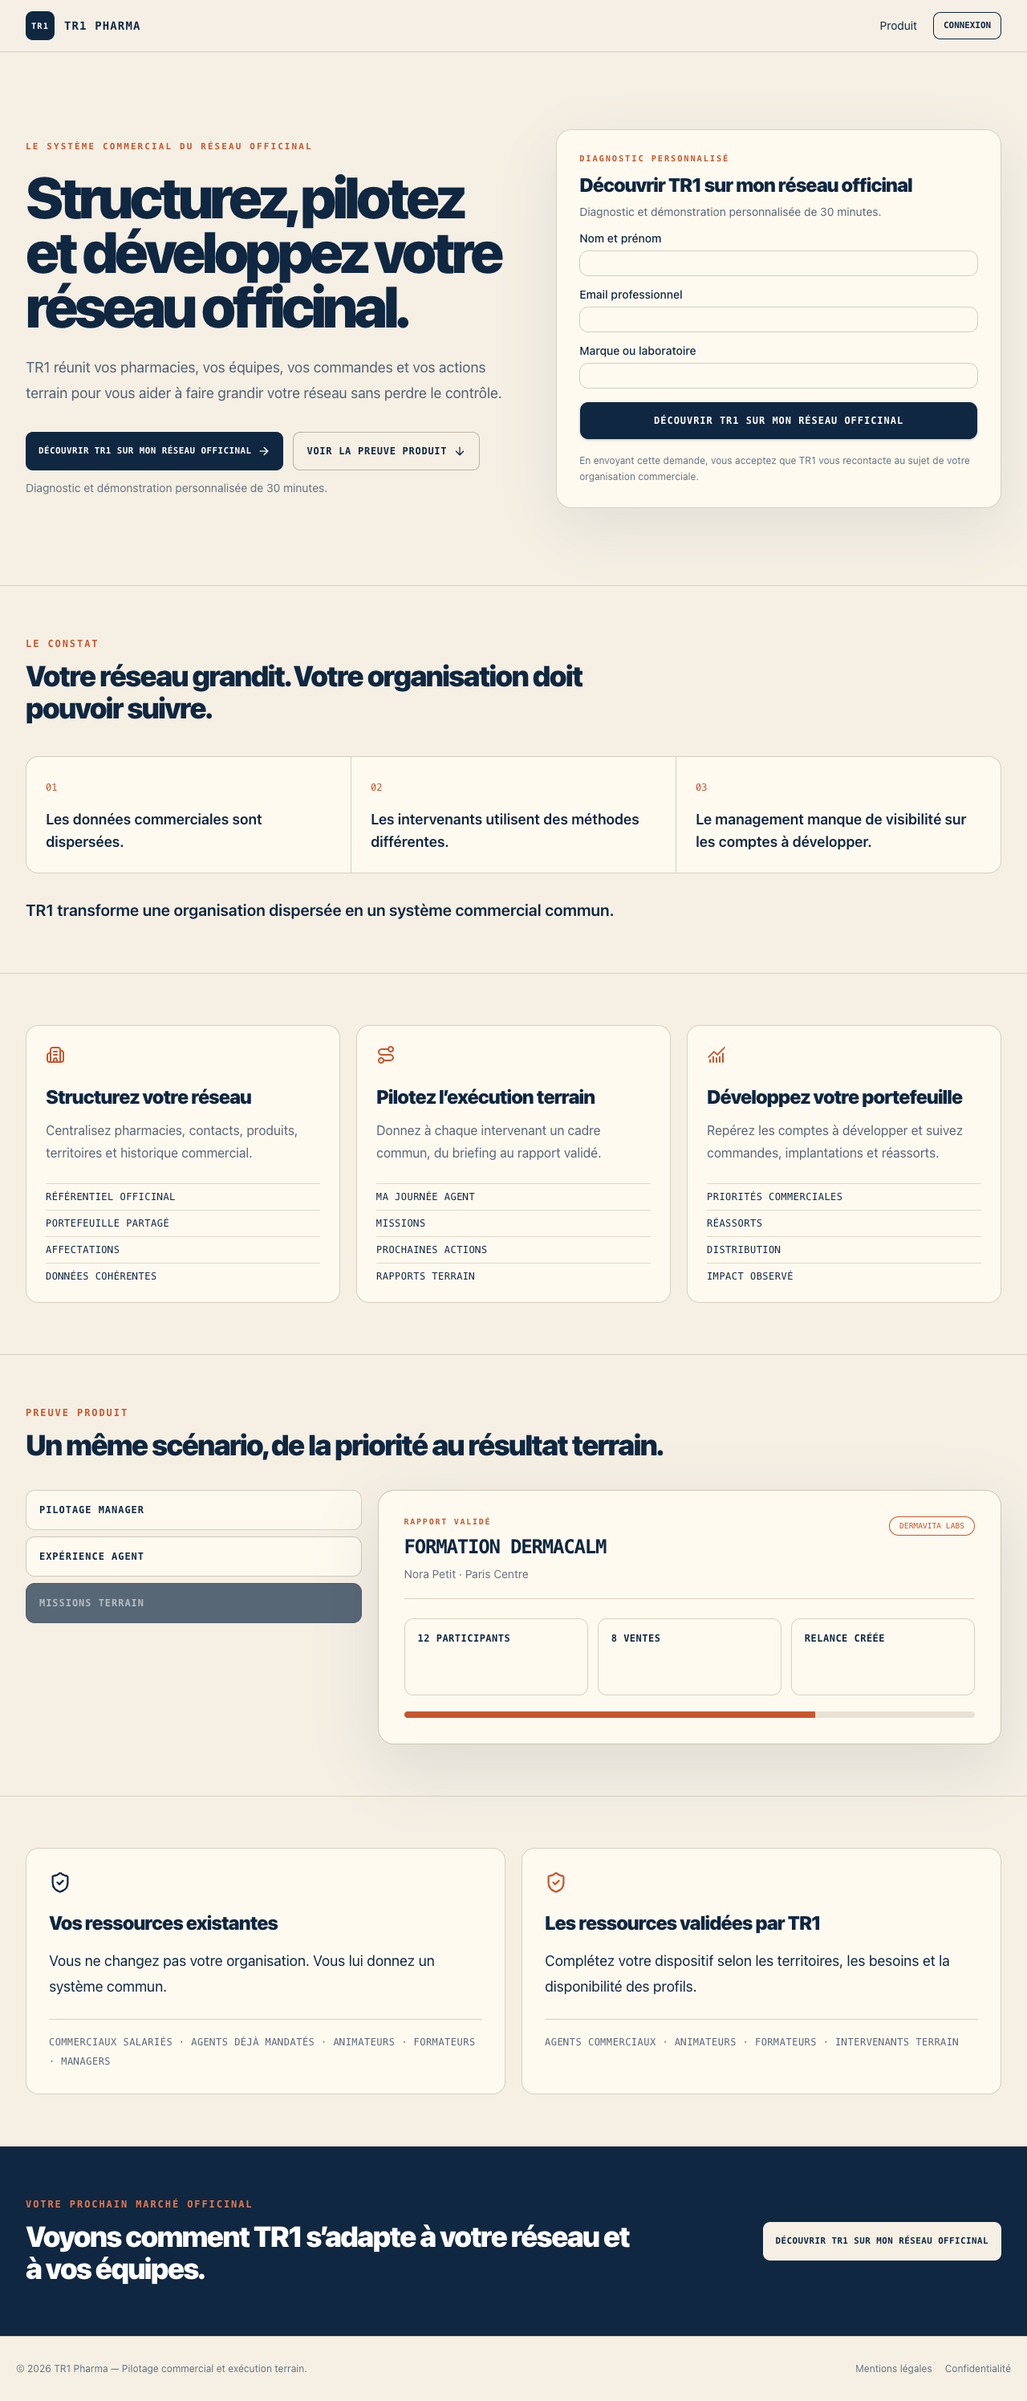
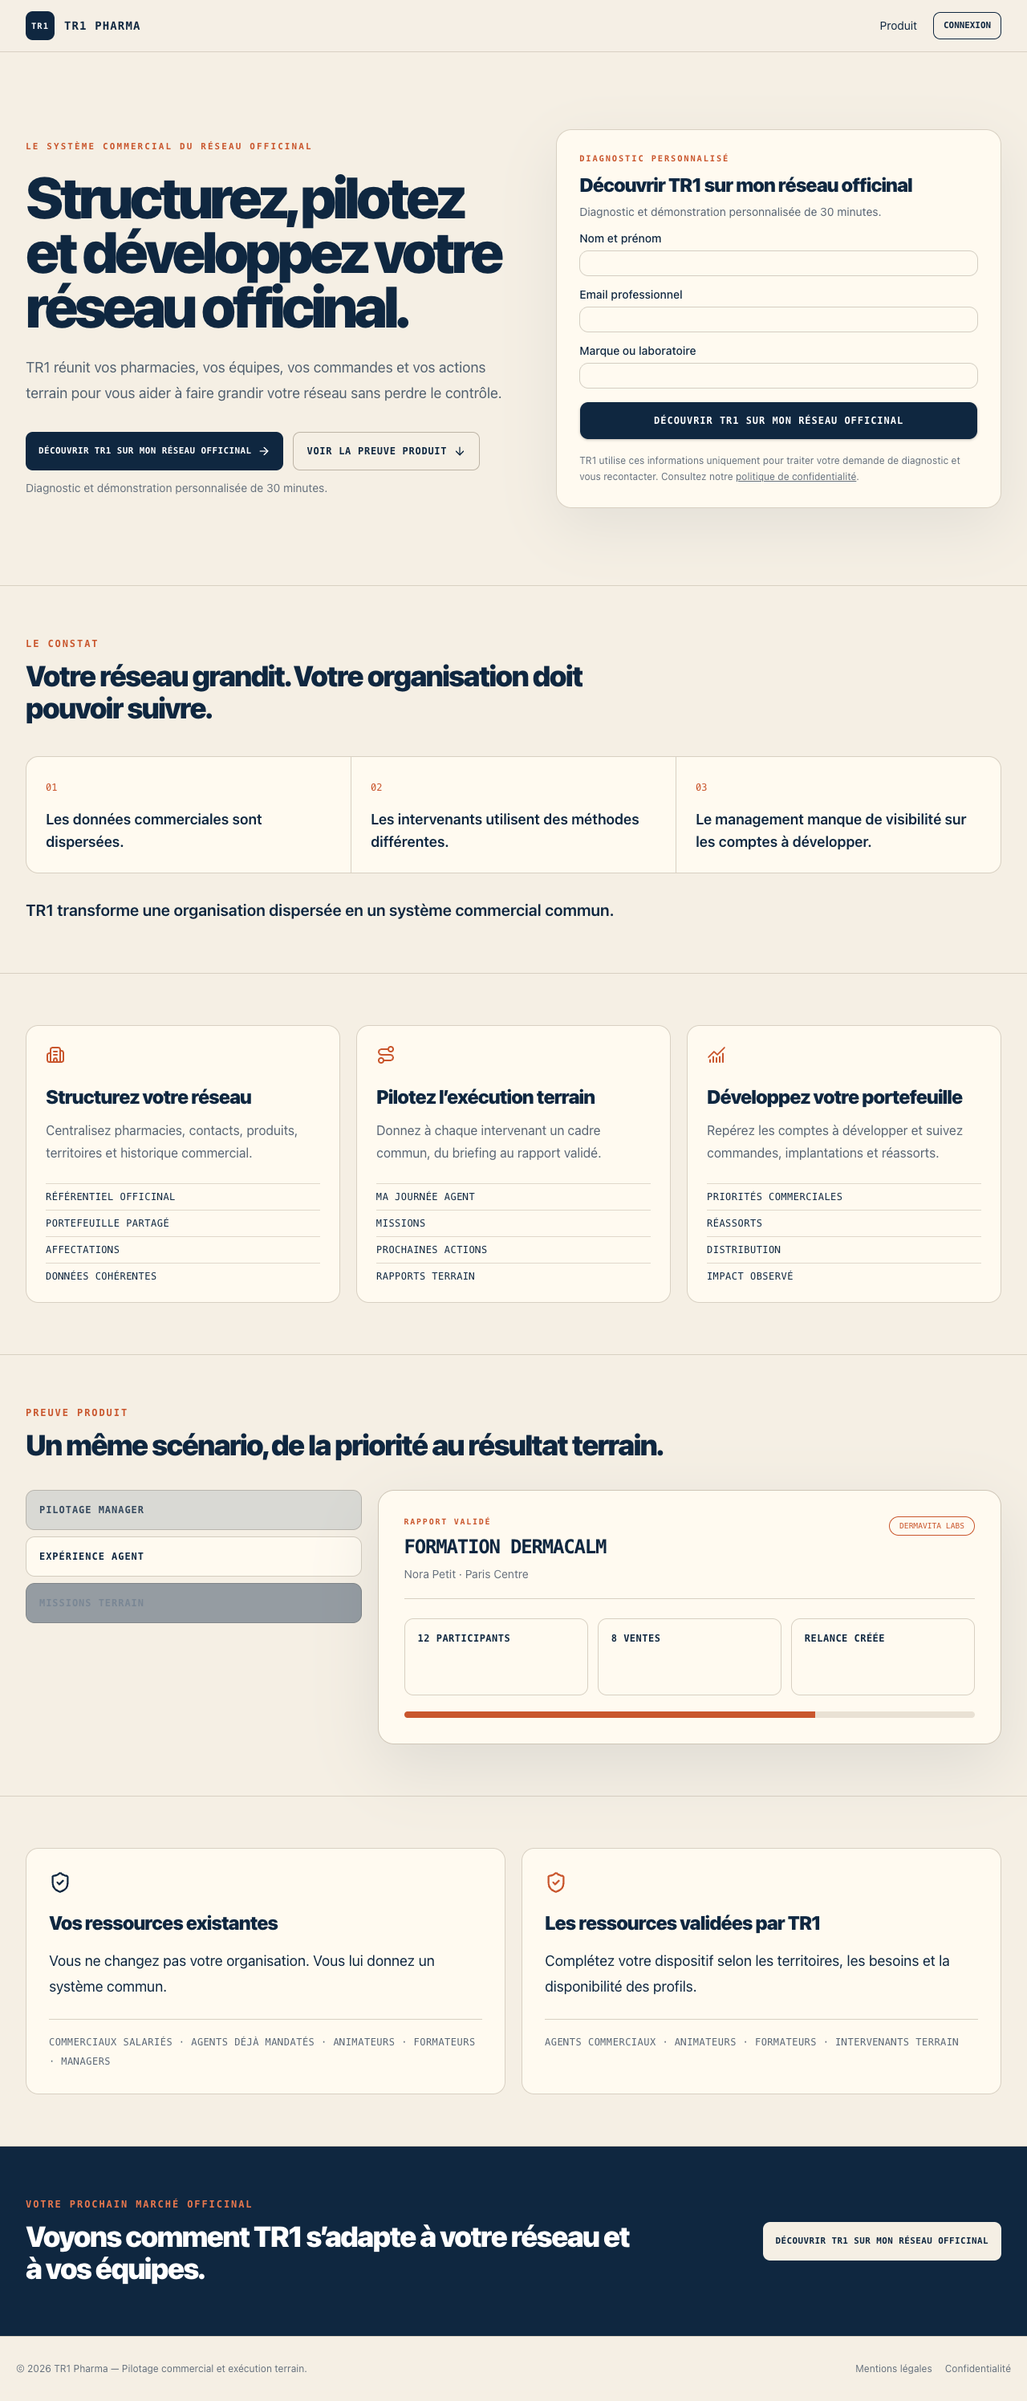
Sprint 12.1 — hardening dépendances et erreurs

diff --git a/src/app/(public)/politique-de-confidentialite/page.tsx b/src/app/(public)/politique-de-confidentialite/page.tsx
@@ -1,1 +1,17 @@
-export default function PrivacyPage() { return <main className="mx-auto min-h-[70vh] max-w-3xl px-5 py-16"><p className="font-mono text-xs font-bold uppercase tracking-[.16em] text-[#c9562d]">Données personnelles</p><h1 className="mt-3 text-4xl font-black tracking-[-.05em]">Politique de confidentialité</h1><div className="mt-8 space-y-5 leading-7 text-[#596574]"><p>Le formulaire collecte uniquement votre nom, votre e-mail professionnel et le nom de votre marque ou laboratoire afin de traiter votre demande de diagnostic.</p><p>Ces données ne sont pas transmises aux marques clientes et ne sont pas utilisées dans leurs environnements. Elles sont accessibles uniquement aux responsables TR1 autorisés.</p><p>Les événements de mesure du site ne contiennent ni nom, ni e-mail, ni contenu du formulaire. Les durées de conservation et coordonnées d’exercice des droits doivent être finalisées avant le déploiement public.</p></div></main>; }
+import { legalInformation, missingLegalInformation } from "@/lib/legal";
+
+export default function PrivacyPage() {
+  const sections = [
+    ["Responsable du traitement", legalInformation.dataController],
+    ["Finalités", "Répondre à une demande de diagnostic, qualifier le besoin et, si TR1 est adapté, préparer une démonstration ou un pilote contrôlé."],
+    ["Base juridique", legalInformation.legalBasis],
+    ["Données collectées", "Nom et prénom, e-mail professionnel, marque ou laboratoire, puis informations de qualification communiquées pendant les échanges."],
+    ["Destinataires", "Responsables TR1 autorisés. Les données ne sont jamais mises à disposition des marques clientes."],
+    ["Durée de conservation", legalInformation.retentionPeriod],
+    ["Droits", `Accès, rectification, effacement, limitation, opposition et portabilité lorsque ces droits s’appliquent. Contact : ${legalInformation.privacyContactEmail}.`],
+    ["Transferts et sous-traitants", "À documenter selon les projets Supabase, Vercel, l’outil de réservation et le fournisseur analytics effectivement configurés."],
+    ["Sécurité", "Accès restreints, politiques RLS PostgreSQL, stockage privé, secrets serveur séparés et journalisation contrôlée."],
+    ["Cookies et analytics", "Aucun fournisseur analytics n’est actif par défaut. Les événements prévus excluent les noms, e-mails, notes et contenus du formulaire."],
+  ];
+  return <main className="mx-auto min-h-[70vh] max-w-3xl px-5 py-16"><p className="font-mono text-xs font-bold uppercase tracking-[.16em] text-[#c9562d]">Données personnelles</p><h1 className="mt-3 text-4xl font-black tracking-[-.05em]">Politique de confidentialité</h1>{missingLegalInformation.length ? <p className="mt-6 rounded-lg border border-[#c9562d] bg-[#fff6ec] p-4 text-sm font-semibold text-[#7a351d]">Version de préparation — les champs signalés doivent être fournis par le responsable TR1 avant publication.</p> : null}<div className="mt-8 space-y-8">{sections.map(([title,content]) => <section key={title}><h2 className="font-mono text-sm font-black uppercase tracking-[.05em]">{title}</h2><p className={`mt-2 leading-7 ${content.startsWith("À renseigner") ? "text-[#c9562d]" : "text-[#596574]"}`}>{content}</p></section>)}</div><p className="mt-10 text-xs text-[#66717d]">Dernière mise à jour : {legalInformation.privacyLastUpdated}</p></main>;
+}

diff --git a/src/app/(public)/actions.ts b/src/app/(public)/actions.ts
@@ -1,14 +1,16 @@
 "use server";
 
-import { createHash } from "node:crypto";
+import { createHash, randomUUID } from "node:crypto";
 import { headers } from "next/headers";
 import { redirect } from "next/navigation";
 import { leadDeduplicationScope, normalizeLeadInput } from "@/lib/marketing/leads";
+import { readRuntimeEnvironment } from "@/lib/runtime-environment";
 import { createAdminClient } from "@/lib/supabase/admin";
 
 export type LeadCaptureState = { error?: string; fields?: { fullName?: string; professionalEmail?: string; companyName?: string } };
 
 export async function captureLeadAction(_state: LeadCaptureState, formData: FormData): Promise<LeadCaptureState> {
+  const correlationId = randomUUID();
   const website = String(formData.get("website") ?? "");
   if (website) redirect("/merci");
   const fields = {
@@ -24,12 +26,19 @@ export async function captureLeadAction(_state: LeadCaptureState, formData: Form
     return { error: "Vérifiez les trois champs avant de continuer.", fields };
   }
 
+  let runtime;
+  try {
+    runtime = readRuntimeEnvironment();
+  } catch {
+    console.error(JSON.stringify({ event: "lead_capture_configuration_error", correlationId }));
+    return { error: `Le formulaire est momentanément indisponible. Référence : ${correlationId}`, fields };
+  }
+  if (!runtime.leadCaptureEnabled) return { error: "Le formulaire est momentanément désactivé.", fields };
+
   const requestHeaders = await headers();
   const forwardedFor = requestHeaders.get("x-forwarded-for")?.split(",")[0]?.trim() || "unknown";
-  const salt = process.env.LEAD_CAPTURE_SALT ?? (process.env.NODE_ENV === "production" ? "" : "tr1-local-leads");
-  if (!salt) return { error: "Le formulaire est momentanément indisponible.", fields };
   const day = new Date().toISOString().slice(0, 10);
-  const digest = (value: string) => createHash("sha256").update(`${salt}:${value}`).digest("hex");
+  const digest = (value: string) => createHash("sha256").update(`${runtime.LEAD_CAPTURE_SALT}:${value}`).digest("hex");
   const deduplicationKey = digest(leadDeduplicationScope(normalized.professionalEmail, normalized.companyName, day));
   const rateLimitKey = digest(forwardedFor);
   const { error } = await createAdminClient().rpc("capture_commercial_lead", {
@@ -40,6 +49,9 @@ export async function captureLeadAction(_state: LeadCaptureState, formData: Form
     lead_deduplication_key: deduplicationKey,
     lead_rate_limit_key: rateLimitKey,
   });
-  if (error) return { error: "Votre demande n’a pas pu être enregistrée. Réessayez dans quelques minutes.", fields };
+  if (error) {
+    console.error(JSON.stringify({ event: "lead_capture_failed", correlationId, code: error.code }));
+    return { error: `Votre demande n’a pas pu être enregistrée. Référence : ${correlationId}`, fields };
+  }
   redirect("/merci");
 }

diff --git a/src/app/(public)/mentions-legales/page.tsx b/src/app/(public)/mentions-legales/page.tsx
@@ -1,1 +1,12 @@
-export default function LegalPage() { return <main className="mx-auto min-h-[70vh] max-w-3xl px-5 py-16"><p className="font-mono text-xs font-bold uppercase tracking-[.16em] text-[#c9562d]">Informations légales</p><h1 className="mt-3 text-4xl font-black tracking-[-.05em]">Mentions légales</h1><div className="mt-8 space-y-5 leading-7 text-[#596574]"><p>TR1 Pharma édite une plateforme SaaS de pilotage commercial et d’exécution terrain dédiée aux marques qui se développent en pharmacie.</p><p>Les informations définitives relatives à la société éditrice, à l’hébergement et au directeur de publication doivent être renseignées avant toute exposition publique.</p><p>Contact : utilisez le formulaire de diagnostic disponible sur ce site.</p></div></main>; }
+import { legalInformation, missingLegalInformation } from "@/lib/legal";
+
+const fields = [
+  ["Raison sociale", "companyName"], ["Forme juridique", "companyForm"], ["Capital social", "shareCapital"],
+  ["Siège social", "registeredOffice"], ["Immatriculation", "registrationNumber"], ["TVA", "vatNumber"],
+  ["Directeur de la publication", "publicationDirector"], ["Contact", "contactEmail"], ["Hébergeur", "hostName"],
+  ["Adresse de l’hébergeur", "hostAddress"],
+] as const;
+
+export default function LegalPage() {
+  return <main className="mx-auto min-h-[70vh] max-w-3xl px-5 py-16"><p className="font-mono text-xs font-bold uppercase tracking-[.16em] text-[#c9562d]">Informations légales</p><h1 className="mt-3 text-4xl font-black tracking-[-.05em]">Mentions légales</h1>{missingLegalInformation.length ? <p className="mt-6 rounded-lg border border-[#c9562d] bg-[#fff6ec] p-4 text-sm font-semibold text-[#7a351d]">Document de préparation — informations définitives requises avant collecte publique de leads.</p> : null}<p className="mt-8 leading-7 text-[#596574]">TR1 Pharma édite une plateforme SaaS de pilotage commercial et d’exécution terrain dédiée aux marques qui se développent en pharmacie.</p><dl className="mt-8 divide-y divide-[#d8d0c2] border-y border-[#d8d0c2]">{fields.map(([label,key]) => <div className="grid gap-1 py-4 sm:grid-cols-[14rem_1fr]" key={key}><dt className="font-mono text-xs font-bold uppercase tracking-[.08em]">{label}</dt><dd className={legalInformation[key].startsWith("À renseigner") ? "text-[#c9562d]" : "text-[#596574]"}>{legalInformation[key]}</dd></div>)}</dl></main>;
+}

diff --git a/src/lib/runtime-environment.ts b/src/lib/runtime-environment.ts
@@ -1,0 +1,39 @@
+import { z } from "zod";
+
+const environmentSchema = z.object({
+  APP_ENV: z.enum(["local", "test", "staging", "production"]),
+  NEXT_PUBLIC_SUPABASE_URL: z.url(),
+  NEXT_PUBLIC_SUPABASE_PUBLISHABLE_KEY: z.string().min(16),
+  SUPABASE_SECRET_KEY: z.string().min(16),
+  NEXT_PUBLIC_APP_URL: z.url(),
+  LEAD_CAPTURE_SALT: z.string().min(24),
+  LEAD_CAPTURE_ENABLED: z.enum(["true", "false"]),
+  BOOKING_URL: z.union([z.url(), z.literal("")]).optional(),
+  NEXT_PUBLIC_ANALYTICS_PROVIDER: z.union([z.literal("dataLayer"), z.literal("")]).optional(),
+});
+
+export function readRuntimeEnvironment(environment: Record<string, string | undefined> = process.env) {
+  const parsed = environmentSchema.parse({
+    APP_ENV: environment.APP_ENV ?? (environment.NODE_ENV === "production" ? "production" : environment.NODE_ENV === "test" ? "test" : "local"),
+    NEXT_PUBLIC_SUPABASE_URL: environment.NEXT_PUBLIC_SUPABASE_URL,
+    NEXT_PUBLIC_SUPABASE_PUBLISHABLE_KEY: environment.NEXT_PUBLIC_SUPABASE_PUBLISHABLE_KEY ?? environment.NEXT_PUBLIC_SUPABASE_ANON_KEY,
+    SUPABASE_SECRET_KEY: environment.SUPABASE_SECRET_KEY ?? environment.SUPABASE_SERVICE_ROLE_KEY,
+    NEXT_PUBLIC_APP_URL: environment.NEXT_PUBLIC_APP_URL,
+    LEAD_CAPTURE_SALT: environment.LEAD_CAPTURE_SALT,
+    LEAD_CAPTURE_ENABLED: environment.LEAD_CAPTURE_ENABLED ?? "true",
+    BOOKING_URL: environment.BOOKING_URL ?? "",
+    NEXT_PUBLIC_ANALYTICS_PROVIDER: environment.NEXT_PUBLIC_ANALYTICS_PROVIDER ?? "",
+  });
+
+  if (parsed.APP_ENV === "staging" || parsed.APP_ENV === "production") {
+    for (const [name, value] of [["NEXT_PUBLIC_SUPABASE_URL", parsed.NEXT_PUBLIC_SUPABASE_URL], ["NEXT_PUBLIC_APP_URL", parsed.NEXT_PUBLIC_APP_URL], ["BOOKING_URL", parsed.BOOKING_URL]] as const) {
+      if (value && new URL(value).protocol !== "https:") throw new Error(`${name} doit utiliser HTTPS en ${parsed.APP_ENV}.`);
+      if (value && ["localhost", "127.0.0.1"].includes(new URL(value).hostname)) throw new Error(`${name} ne peut pas cibler localhost en ${parsed.APP_ENV}.`);
+    }
+  }
+
+  return {
+    ...parsed,
+    leadCaptureEnabled: parsed.LEAD_CAPTURE_ENABLED === "true",
+  };
+}

diff --git a/src/components/marketing/lead-form.tsx b/src/components/marketing/lead-form.tsx
@@ -1,6 +1,7 @@
 "use client";
 
 import { useActionState, useEffect, useRef } from "react";
+import Link from "next/link";
 import { captureLeadAction, type LeadCaptureState } from "@/app/(public)/actions";
 import { Button } from "@/components/ui/button";
 import { Input } from "@/components/ui/input";
@@ -28,7 +29,7 @@ export function LeadForm() {
       <div className="grid gap-2"><Label htmlFor="companyName">Marque ou laboratoire</Label><Input defaultValue={state.fields?.companyName} id="companyName" maxLength={160} name="companyName" required /></div>
       <div aria-hidden="true" className="absolute -left-[10000px]"><Label htmlFor="website">Site web</Label><Input autoComplete="off" id="website" name="website" tabIndex={-1} /></div>
       <Button className="h-12 bg-[#0f2740] font-mono text-xs font-black uppercase tracking-[.08em] text-white hover:bg-[#173a5c]" disabled={pending} onClick={() => trackMarketingEvent("lead_form_submit")} type="submit">{pending ? "Envoi…" : "Découvrir TR1 sur mon réseau officinal"}</Button>
-      <p className="text-xs leading-5 text-[#66717d]">En envoyant cette demande, vous acceptez que TR1 vous recontacte au sujet de votre organisation commerciale.</p>
+      <p className="text-xs leading-5 text-[#66717d]">TR1 utilise ces informations uniquement pour traiter votre demande de diagnostic et vous recontacter. Consultez notre <Link className="underline" href="/politique-de-confidentialite">politique de confidentialité</Link>.</p>
     </form>
   );
 }

diff --git a/src/lib/runtime-environment.test.ts b/src/lib/runtime-environment.test.ts
@@ -1,0 +1,30 @@
+import { describe, expect, it } from "vitest";
+import { readRuntimeEnvironment } from "./runtime-environment";
+
+const valid = {
+  APP_ENV: "staging",
+  NEXT_PUBLIC_SUPABASE_URL: "https://staging-project.supabase.co",
+  NEXT_PUBLIC_SUPABASE_PUBLISHABLE_KEY: "publishable-key-placeholder",
+  SUPABASE_SECRET_KEY: "server-secret-placeholder",
+  NEXT_PUBLIC_APP_URL: "https://staging.example.test",
+  LEAD_CAPTURE_SALT: "a-random-placeholder-with-32-characters",
+  LEAD_CAPTURE_ENABLED: "true",
+};
+
+describe("runtime environment", () => {
+  it("accepts an isolated HTTPS staging configuration", () => {
+    expect(readRuntimeEnvironment(valid).leadCaptureEnabled).toBe(true);
+  });
+
+  it("rejects localhost for staging", () => {
+    expect(() => readRuntimeEnvironment({ ...valid, NEXT_PUBLIC_APP_URL: "http://127.0.0.1:3000" })).toThrow(/HTTPS|localhost/);
+  });
+
+  it("rejects missing server secrets", () => {
+    expect(() => readRuntimeEnvironment({ ...valid, SUPABASE_SECRET_KEY: "" })).toThrow();
+  });
+
+  it("supports an explicit lead capture kill switch", () => {
+    expect(readRuntimeEnvironment({ ...valid, LEAD_CAPTURE_ENABLED: "false" }).leadCaptureEnabled).toBe(false);
+  });
+});

diff --git a/src/lib/legal.ts b/src/lib/legal.ts
@@ -1,0 +1,27 @@
+const missing = "À renseigner avant exposition publique";
+
+function value(name: string) {
+  return process.env[name]?.trim() || missing;
+}
+
+export const legalInformation = {
+  companyName: value("LEGAL_COMPANY_NAME"),
+  companyForm: value("LEGAL_COMPANY_FORM"),
+  shareCapital: value("LEGAL_SHARE_CAPITAL"),
+  registeredOffice: value("LEGAL_REGISTERED_OFFICE"),
+  registrationNumber: value("LEGAL_REGISTRATION_NUMBER"),
+  vatNumber: value("LEGAL_VAT_NUMBER"),
+  publicationDirector: value("LEGAL_PUBLICATION_DIRECTOR"),
+  contactEmail: value("LEGAL_CONTACT_EMAIL"),
+  hostName: value("LEGAL_HOST_NAME"),
+  hostAddress: value("LEGAL_HOST_ADDRESS"),
+  dataController: value("PRIVACY_DATA_CONTROLLER"),
+  privacyContactEmail: value("PRIVACY_CONTACT_EMAIL"),
+  retentionPeriod: value("PRIVACY_RETENTION_PERIOD"),
+  legalBasis: value("PRIVACY_LEGAL_BASIS"),
+  privacyLastUpdated: value("PRIVACY_LAST_UPDATED"),
+};
+
+export const missingLegalInformation = Object.entries(legalInformation)
+  .filter(([, fieldValue]) => fieldValue === missing)
+  .map(([field]) => field);

diff --git a/e2e/sprint12-go-to-market.spec.ts b/e2e/sprint12-go-to-market.spec.ts
@@ -48,6 +48,17 @@ test("landing mobile reste lisible et sans débordement", async ({ page }) => {
   await page.screenshot({ path: `${artifacts}/landing-mobile.png`, fullPage: true });
 });
 
+test("pages légales signalées et page 404 publique", async ({ page }) => {
+  await page.goto("/mentions-legales");
+  await expect(page.getByRole("heading", { name: "Mentions légales" })).toBeVisible();
+  await expect(page.getByText(/informations définitives requises/i)).toBeVisible();
+  await page.goto("/politique-de-confidentialite");
+  await expect(page.getByRole("heading", { name: "Politique de confidentialité" })).toBeVisible();
+  await expect(page.getByText(/version de préparation/i)).toBeVisible();
+  await page.goto("/page-inexistante-sprint-12-1");
+  await expect(page.getByRole("heading", { name: "Page introuvable." })).toBeVisible();
+});
+
 test("responsable TR1 qualifie, attribue et prépare un pilote confirmé", async ({ page }) => {
   await signIn(page, "superadmin@tr1.local", /Dermavita/i);
   await page.goto(`/dashboard/admin/leads?q=${encodeURIComponent(leadEmail)}`);

diff --git a/src/app/(public)/error.tsx b/src/app/(public)/error.tsx
@@ -8,7 +8,7 @@ export default function PublicError({ reset }: { error: Error & { digest?: strin
       <div>
         <p className="font-mono text-xs font-bold uppercase tracking-[.18em] text-[#c9562d]">Service indisponible</p>
         <h1 className="mt-4 text-5xl font-black tracking-[-.06em]">TR1 ne peut pas afficher cette page pour le moment.</h1>
-        <p className="mx-auto mt-5 max-w-xl leading-7 text-[#596574]">Aucune donnée n’a été perdue. Vous pouvez réessayer ou revenir à l’accueil.</p>
+        <p className="mx-auto mt-5 max-w-xl leading-7 text-[#596574]">L’opération n’est pas confirmée. Vous pouvez réessayer ou revenir à l’accueil.</p>
         <div className="mt-8 flex justify-center gap-3">
           <button className="rounded-md bg-[#0f2740] px-5 py-3 font-mono text-xs font-black uppercase text-white" onClick={reset}>Réessayer</button>
           <Link className="rounded-md border border-[#0f2740] px-5 py-3 font-mono text-xs font-black uppercase" href="/">Accueil</Link>

diff --git a/e2e/sprint11-2-ux-foundation.spec.ts b/e2e/sprint11-2-ux-foundation.spec.ts
@@ -38,9 +38,11 @@ test("scénario 2 — Manager desktop", async ({ page }) => {
   if (await priorityRow.count()) await priorityRow.getByRole("link").first().click();
   else await page.goto("/dashboard/pharmacies/00000000-0000-0000-0000-000000000411");
   await expect(page.getByTestId("terrain-pharmacy-header")).toBeVisible();
-  await expect(page.getByRole("link", { name: "Préparer la relance" })).toBeVisible();
+  const followUpLink = page.getByRole("link", { name: "Préparer la relance" });
+  await expect(followUpLink).toBeVisible();
+  await expect(followUpLink).toHaveAttribute("href", "?tab=activity");
   await page.screenshot({ path: `${artifacts}/pharmacy-detail-desktop.png`, fullPage: true });
-  await page.getByRole("link", { name: "Préparer la relance" }).click();
+  await page.goto(new URL((await followUpLink.getAttribute("href"))!, page.url()).toString());
   await expect(page).toHaveURL(/tab=activity/);
 });
 

diff --git a/src/app/not-found.tsx b/src/app/not-found.tsx
@@ -1,0 +1,5 @@
+import Link from "next/link";
+
+export default function NotFoundPage() {
+  return <main className="grid min-h-screen place-items-center bg-[#f5efe4] px-5 text-center text-[#0f2740]"><div><h1 className="font-mono text-xs font-bold uppercase tracking-[.18em] text-[#c9562d]">404</h1><h2 className="mt-4 text-5xl font-black tracking-[-.06em]">Page introuvable.</h2><p className="mt-5 text-[#596574]">Vérifiez l’adresse ou revenez à l’accueil TR1.</p><Link className="mt-8 inline-flex rounded-md bg-[#0f2740] px-5 py-3 font-mono text-xs font-black uppercase text-white" href="/">Retour à l’accueil</Link></div></main>;
+}
